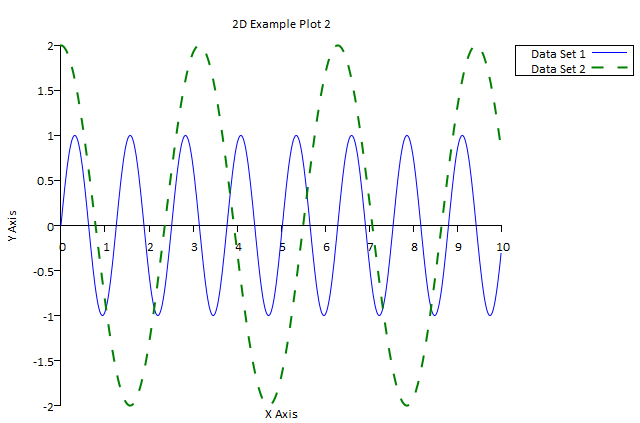
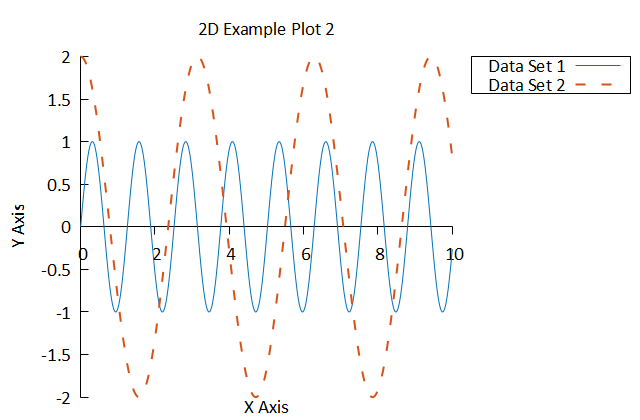
Update main examples

diff --git a/README.md b/README.md
@@ -15,6 +15,8 @@ Documentation can be found [here](https://jchristopherson.github.io/fplot/)
 ## Example 1
 This example illustrates how to plot two-dimensional data.
 ```fortran
+! fplot_2d_1.f90
+
 program example
     use, intrinsic :: iso_fortran_env
     use fplot_core
@@ -22,21 +24,20 @@ program example
 
     ! Parameters
     integer(int32), parameter :: n = 1000
-    real(real64), parameter :: dx = 1.0d-2
 
     ! Local Variables
-    integer(int32) :: i
     real(real64), dimension(n) :: x, y1, y2
     type(plot_2d) :: plt
     type(plot_data_2d) :: d1, d2
     class(plot_axis), pointer :: xAxis, yAxis
-    class(legend), pointer :: lgnd
+    type(legend), pointer :: leg
     
     ! Initialize the plot object
     call plt%initialize()
 
     ! Define titles
-    call plt%set_title("2D Example Plot 1")
+    call plt%set_title("Example Plot")
+    call plt%set_font_size(14)
 
     xAxis => plt%get_x_axis()
     call xAxis%set_title("X Axis")
@@ -44,14 +45,16 @@ program example
     yAxis => plt%get_y_axis()
     call yAxis%set_title("Y Axis")
 
-    lgnd => plt%get_legend()
-    call lgnd%set_is_visible(.true.)
+    ! Establish legend properties
+    leg => plt%get_legend()
+    call leg%set_is_visible(.true.)
+    call leg%set_draw_inside_axes(.false.)
+    call leg%set_horizontal_position(LEGEND_CENTER)
+    call leg%set_vertical_position(LEGEND_BOTTOM)
+    call leg%set_draw_border(.false.)
 
     ! Define the data, and then add it to the plot
-    x(1) = 0.0d0
-    do i = 2, n
-        x(i) = x(i-1) + dx
-    end do
+    x = linspace(0.0d0, 10.0d0, n)
     y1 = sin(5.0d0 * x)
     y2 = 2.0d0 * cos(2.0d0 * x)
 
@@ -60,16 +63,12 @@ program example
 
     ! Define properties for each data set
     call d1%set_name("Data Set 1")
-    call d1%set_use_auto_color(.false.)
-    call d1%set_line_color(CLR_BLUE)
     call d1%set_draw_markers(.true.)
     call d1%set_marker_frequency(10)
     call d1%set_marker_style(MARKER_EMPTY_CIRCLE)
     call d1%set_marker_scaling(2.0)
 
     call d2%set_name("Data Set 2")
-    call d2%set_use_auto_color(.false.)
-    call d2%set_line_color(CLR_GREEN)
     call d2%set_line_style(LINE_DASHED)
     call d2%set_line_width(2.0)
 
@@ -87,6 +86,8 @@ This is the plot resulting from the above program.
 ## Example 2
 Another example of a similar two-dimensional plot to the plot in example 1 is given below.  This plot shifts the x-axis to the zero point along the y-axis.
 ```fortran
+! fplot_2d_2.f90
+
 program example
     use, intrinsic :: iso_fortran_env
     use fplot_core
@@ -94,10 +95,8 @@ program example
 
     ! Parameters
     integer(int32), parameter :: n = 1000
-    real(real64), parameter :: dx = 1.0d-2
 
     ! Local Variables
-    integer(int32) :: i
     real(real64), dimension(n) :: x, y1, y2
     type(plot_2d) :: plt
     type(plot_data_2d) :: d1, d2
@@ -128,10 +127,7 @@ program example
     call yAxis%set_title("Y Axis")
 
     ! Define the data, and then add it to the plot
-    x(1) = 0.0d0
-    do i = 2, n
-        x(i) = x(i-1) + dx
-    end do
+    x = linspace(0.0d0, 10.d0, n)
     y1 = sin(5.0d0 * x)
     y2 = 2.0d0 * cos(2.0d0 * x)
 
@@ -140,11 +136,9 @@ program example
 
     ! Define properties for each data set
     call d1%set_name("Data Set 1")
-    call d1%set_use_auto_color(.false.)
     call d1%set_line_width(1.0)
 
     call d2%set_name("Data Set 2")
-    call d2%set_use_auto_color(.false.)
     call d2%set_line_style(LINE_DASHED)
     call d2%set_line_width(2.0)
 
@@ -162,6 +156,8 @@ This is the plot resulting from the above program.
 ## Example 3
 The following example illustrates how to create a three-dimensional surface plot.
 ```fortran
+! fplot_surf_3.f90
+
 program example
     use, intrinsic :: iso_fortran_env
     use fplot_core
@@ -176,35 +172,35 @@ program example
     real(real64), parameter :: yMin = -5.0d0
 
     ! Local Variables
-    real(real64), dimension(m, n) :: x, y, z
-    real(real64) :: dx, dy
-    integer(int32) :: i, j
+    real(real64), dimension(n) :: xdata
+    real(real64), dimension(m) :: ydata
+    real(real64), dimension(:,:), pointer :: x, y
+    real(real64), dimension(m, n, 2), target :: xy
+    real(real64), dimension(m, n) :: z
     type(surface_plot) :: plt
     type(surface_plot_data) :: d1
     type(rainbow_colormap) :: map
     class(plot_axis), pointer :: xAxis, yAxis, zAxis
 
     ! Define the data
-    dx = (xMax - xMin) / (n - 1.0d0)
-    x(:,1) = xMin
-    do j = 2, n
-        x(:,j) = x(:,j-1) + dx
-    end do
+    xdata = linspace(xMin, xMax, n)
+    ydata = linspace(yMin, yMax, m)
+    xy = meshgrid(xdata, ydata)
+    x => xy(:,:,1)
+    y => xy(:,:,2)
 
-    dy = (yMax - yMin) / (m - 1.0d0)
-    y(1,:) = yMax
-    do i = 2, m
-        y(i,:) = y(i-1,:) - dy
-    end do
-
+    ! Define the function to plot
     z = sin(sqrt(x**2 + y**2))
+
+    ! Define colormap settings
+    call map%set_show_tics(.false.)
 
     ! Create the plot
     call plt%initialize()
     call plt%set_colormap(map)
 
     ! Define titles
-    call plt%set_title("Surface Example Plot 1")
+    call plt%set_title("Example Plot")
 
     xAxis => plt%get_x_axis()
     call xAxis%set_title("X Axis")
@@ -217,7 +213,6 @@ program example
 
     ! Define the data set
     call d1%define_data(x, y, z)
-    call d1%set_name("sin(sqrt(x**2 + y**2))")
     call plt%push(d1)
 
     ! Let GNUPLOT draw the plot
